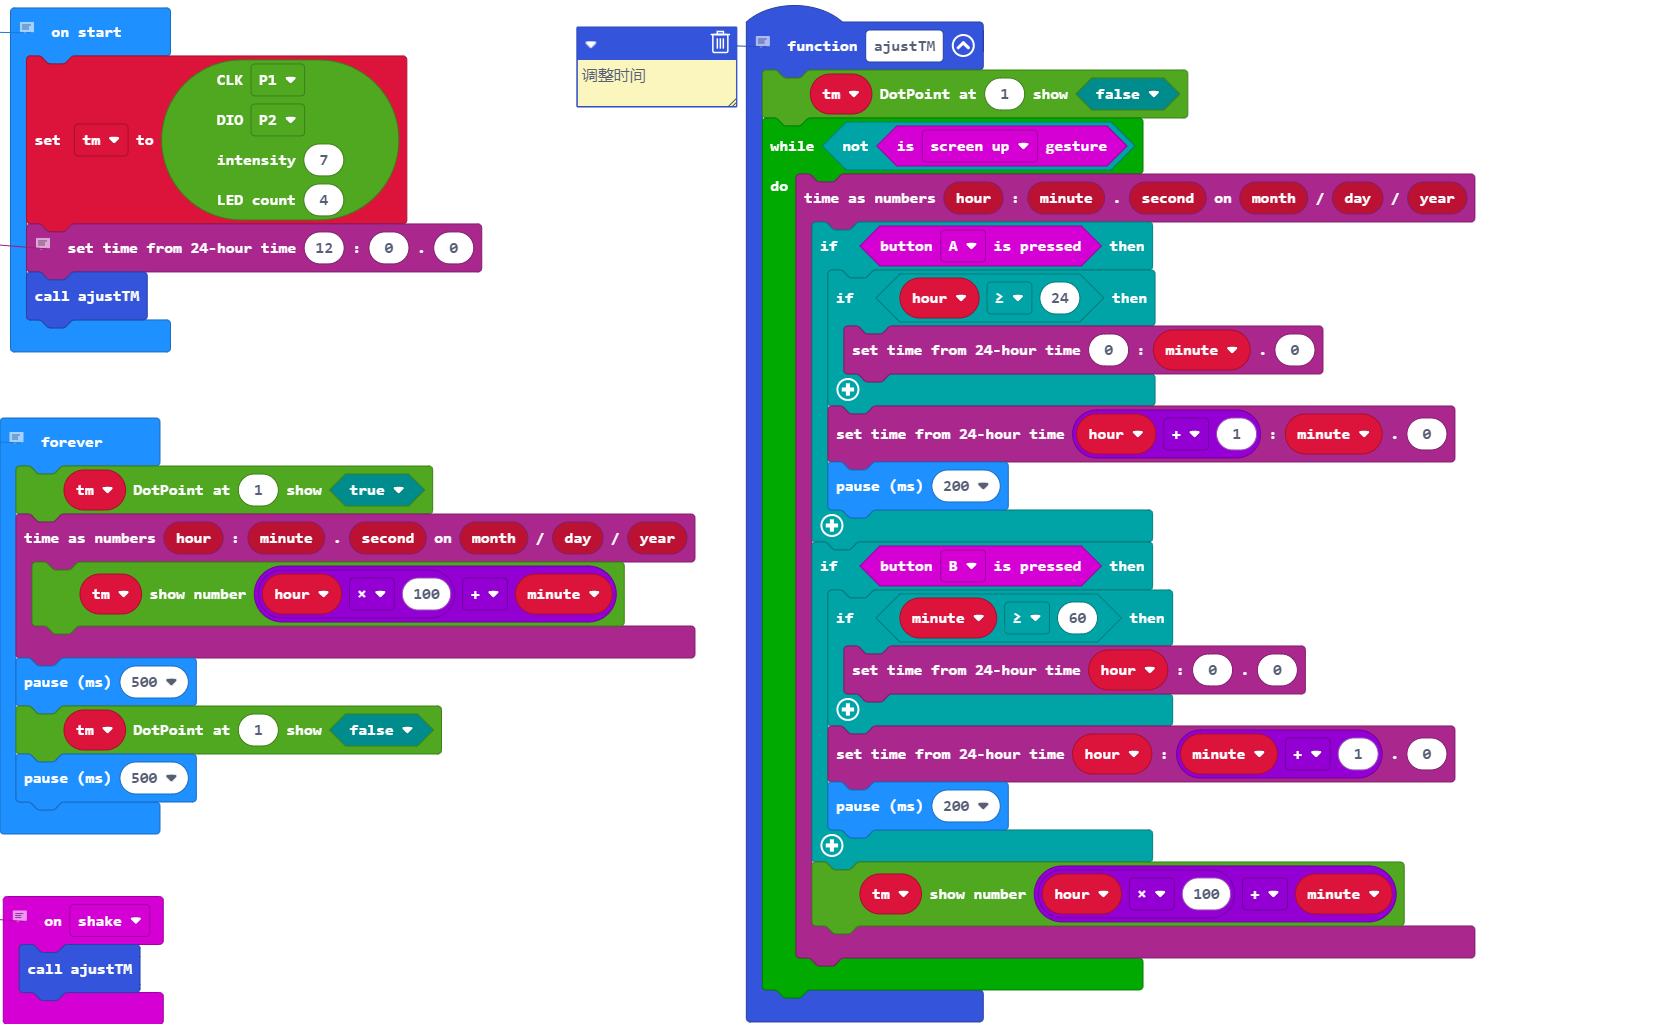
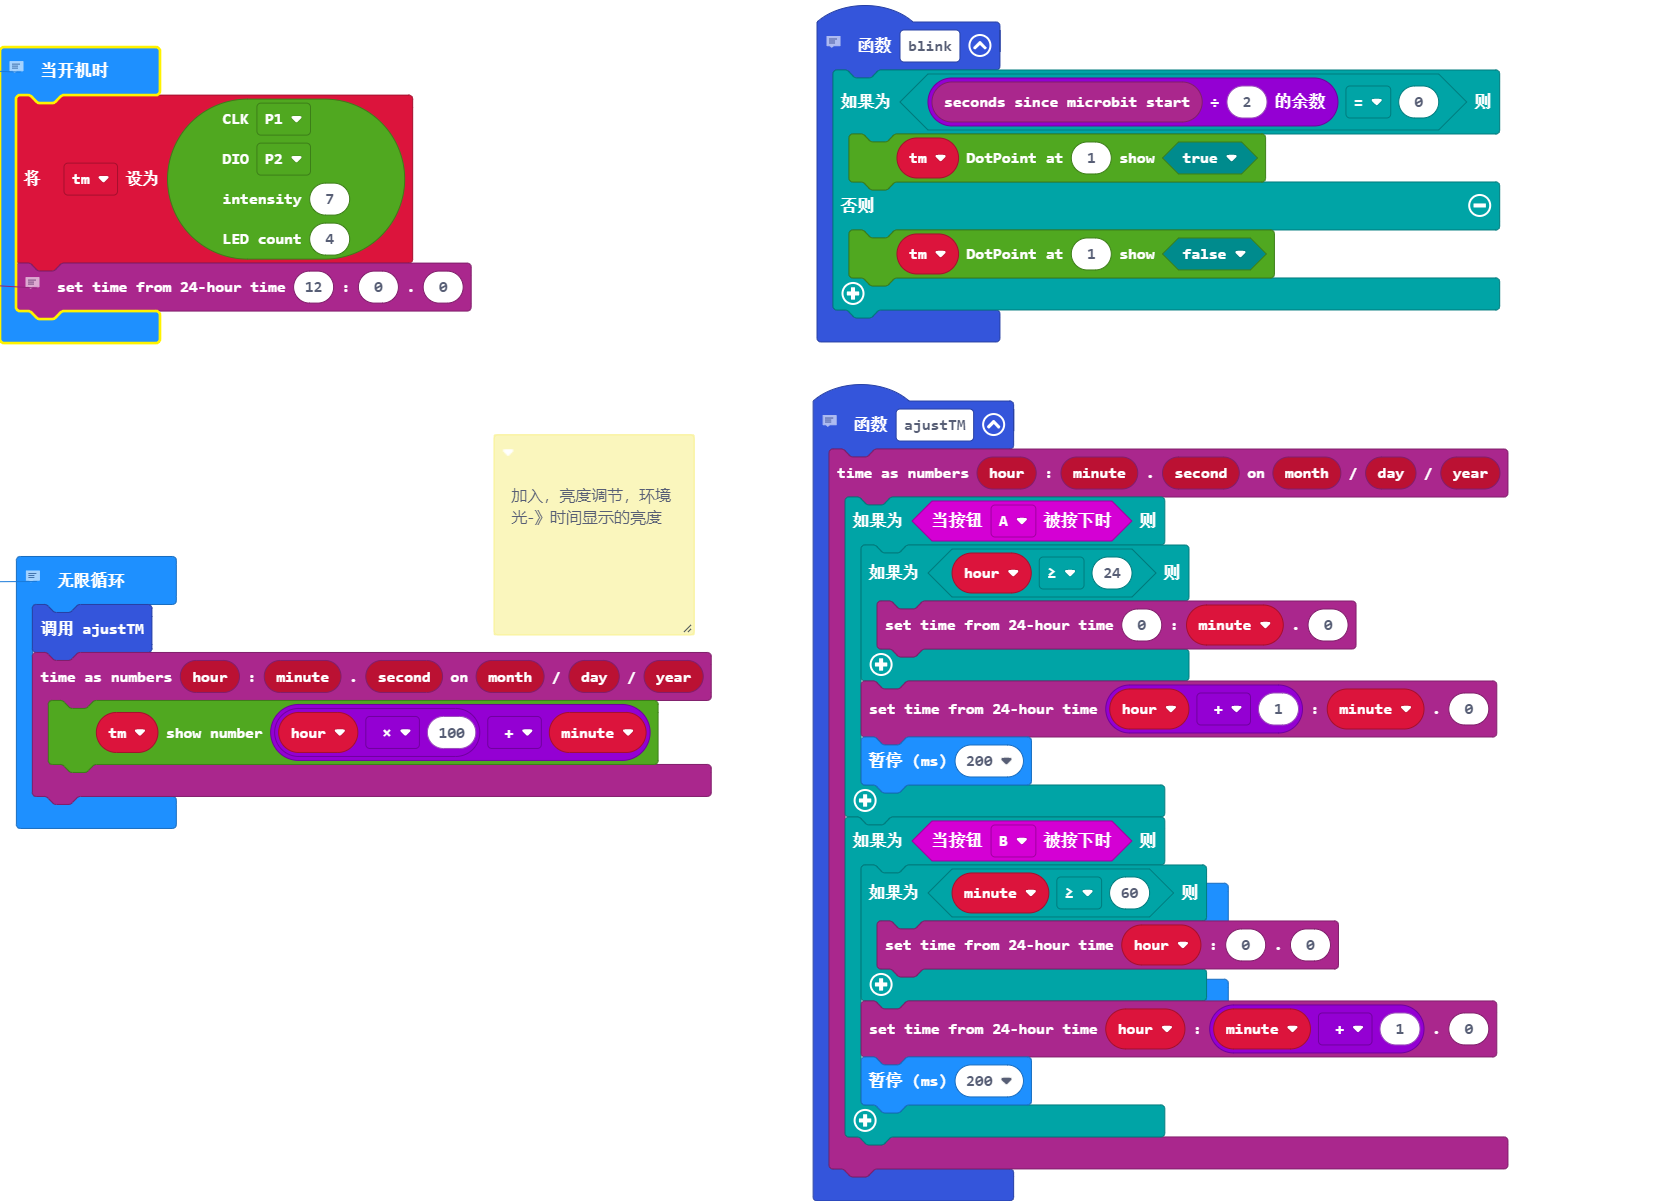
更新 pxt.json, main.blocks, main.ts, main.py

diff --git a/main.ts b/main.ts
@@ -1,30 +1,30 @@
-// 调整时间
-function ajustTM () {
-    tm.showDP(1, false)
-    while (!(input.isGesture(Gesture.ScreenUp))) {
-        timeanddate.numericTime(function (hour, minute, second, month, day, year) {
-            if (input.buttonIsPressed(Button.A)) {
-                if (hour >= 24) {
-                    timeanddate.set24HourTime(0, minute, 0)
-                }
-                timeanddate.set24HourTime(hour + 1, minute, 0)
-                basic.pause(200)
-            }
-            if (input.buttonIsPressed(Button.B)) {
-                if (minute >= 60) {
-                    timeanddate.set24HourTime(hour, 0, 0)
-                }
-                timeanddate.set24HourTime(hour, minute + 1, 0)
-                basic.pause(200)
-            }
-            tm.showNumber(hour * 100 + minute)
-        })
+// 秒数blink
+function blink () {
+    if (timeanddate.secondsSinceReset() % 2 == 0) {
+        tm.showDP(1, true)
+    } else {
+        tm.showDP(1, false)
     }
 }
-// 晃动时调整时间
-input.onGesture(Gesture.Shake, function () {
-    ajustTM()
-})
+// 调整时间
+function ajustTM () {
+    timeanddate.numericTime(function (hour, minute, second, month, day, year) {
+        if (input.buttonIsPressed(Button.A)) {
+            if (hour >= 24) {
+                timeanddate.set24HourTime(0, minute, 0)
+            }
+            timeanddate.set24HourTime(hour + 1, minute, 0)
+            basic.pause(200)
+        }
+        if (input.buttonIsPressed(Button.B)) {
+            if (minute >= 60) {
+                timeanddate.set24HourTime(hour, 0, 0)
+            }
+            timeanddate.set24HourTime(hour, minute + 1, 0)
+            basic.pause(200)
+        }
+    })
+}
 // 开机设置
 let tm: TM1637.TM1637LEDs = null
 tm = TM1637.create(
@@ -35,14 +35,16 @@ DigitalPin.P2,
 )
 // 拓展名：Time and Date
 timeanddate.set24HourTime(12, 0, 0)
-ajustTM()
+/**
+ * 加入，亮度调节，环境光-》时间显示的亮度
+ */
 // 显示时间
 basic.forever(function () {
-    tm.showDP(1, true)
+    ajustTM()
     timeanddate.numericTime(function (hour, minute, second, month, day, year) {
         tm.showNumber(hour * 100 + minute)
     })
-    basic.pause(500)
-    tm.showDP(1, false)
-    basic.pause(500)
+})
+basic.forever(function () {
+    blink()
 })

diff --git a/main.py b/main.py
@@ -1,0 +1,35 @@
+# 调整时间
+def ajustTM():
+    tm.show_dp(1, False)
+    while not (input.is_gesture(Gesture.SCREEN_UP)):
+        pass
+# 晃动时调整时间
+
+def on_gesture_shake():
+    ajustTM()
+input.on_gesture(Gesture.SHAKE, on_gesture_shake)
+
+# 开机设置
+tm: TM1637.TM1637LEDs = None
+tm = TM1637.create(DigitalPin.P1, DigitalPin.P2, 7, 4)
+# 拓展名：Time and Date
+timeanddate.set24_hour_time(12, 0, 0)
+ajustTM()
+# 显示时间
+
+def on_forever():
+    
+    def on_numeric_time(hour, minute, second, month, day, year):
+        tm.show_number(hour * 100 + minute)
+    timeanddate.numeric_time(on_numeric_time)
+    
+basic.forever(on_forever)
+
+# 秒数：闪烁
+
+def on_forever2():
+    tm.show_dp(1, True)
+    basic.pause(500)
+    tm.show_dp(1, False)
+    basic.pause(500)
+basic.forever(on_forever2)
